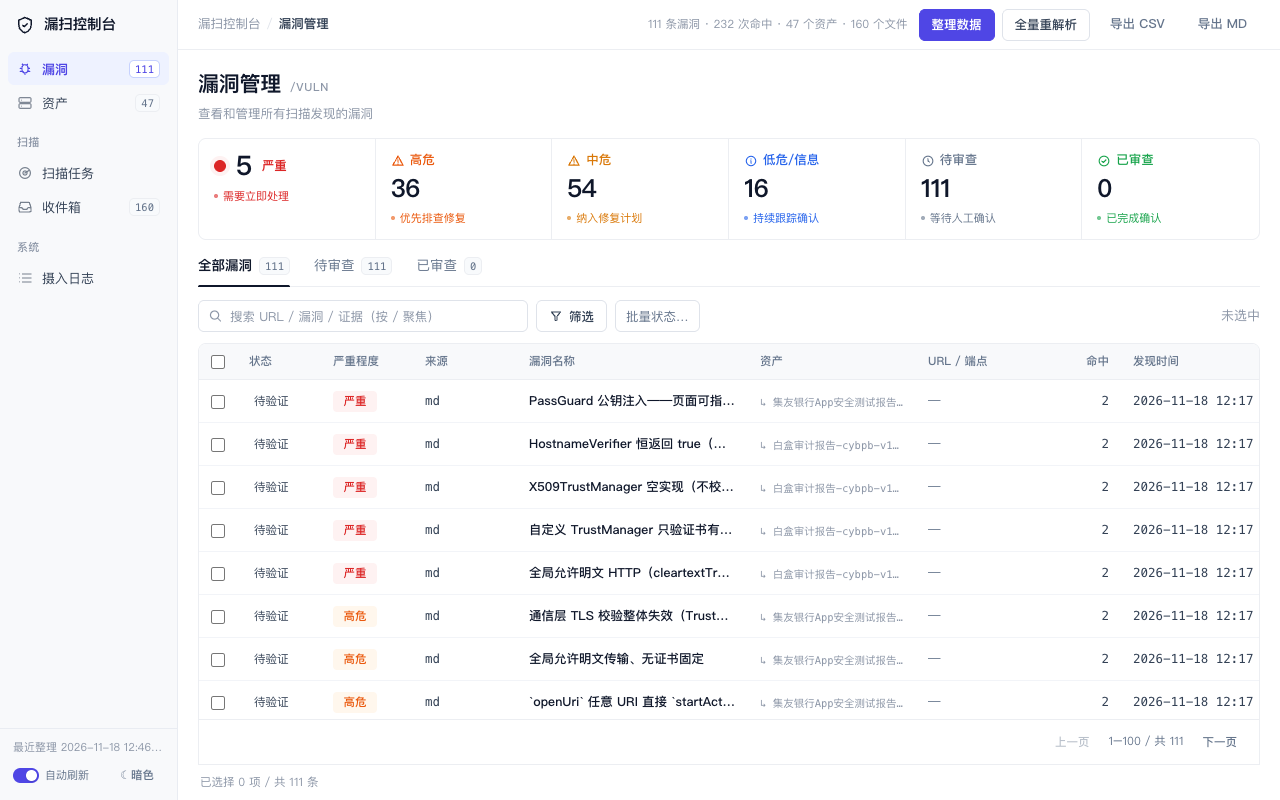
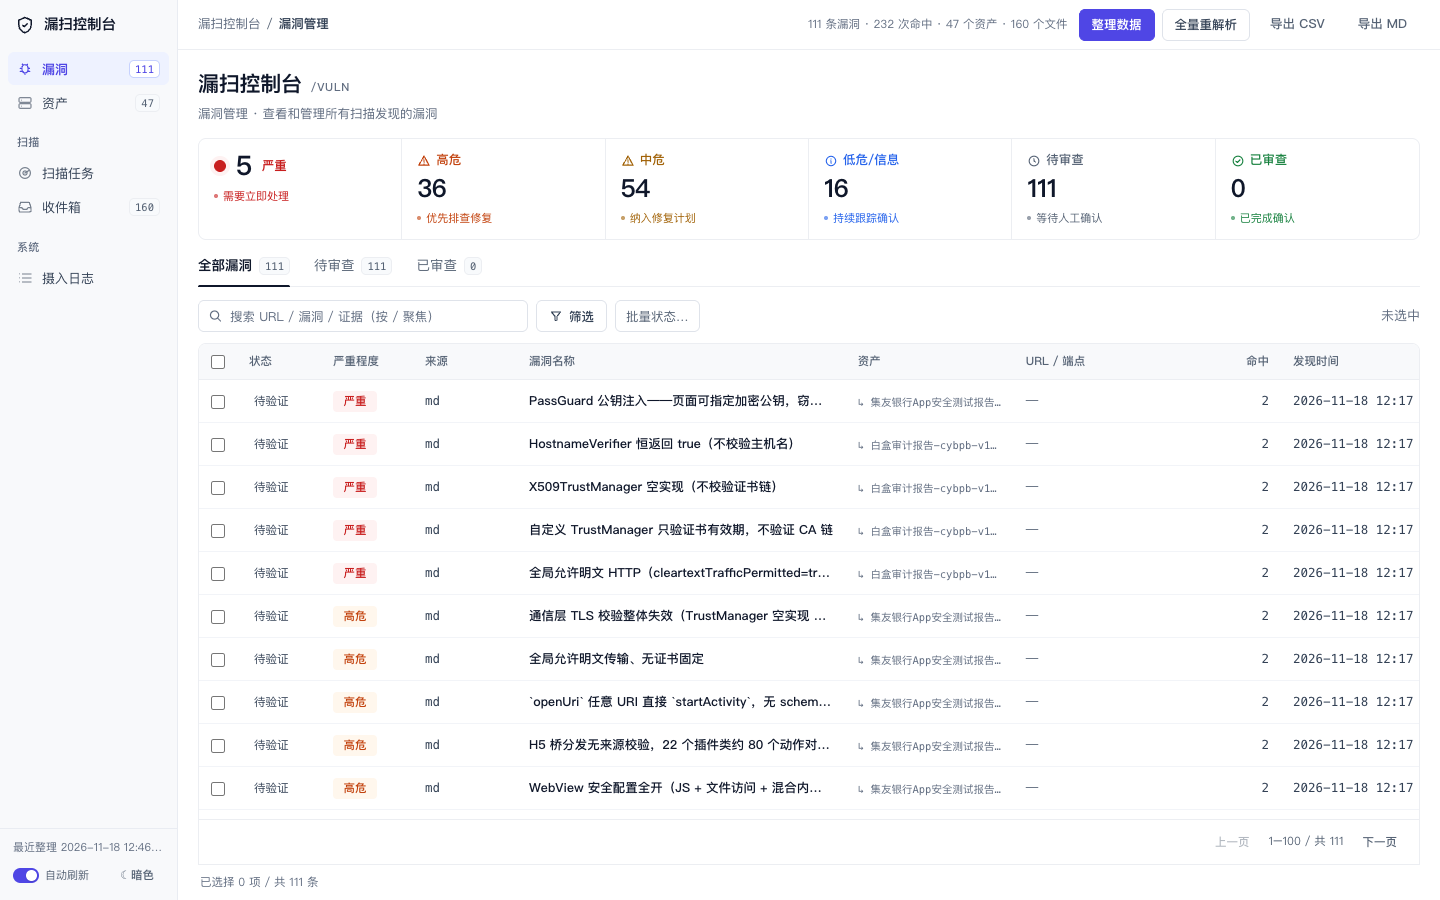
名称回归：页头与浏览器标签恢复「漏扫控制台」，页面区分改挂代号与副标题
- <title> 与 H1 主标题回到「漏扫控制台」，不再被页面名顶掉
- 切页时代号跟着变（/VULN /ASSET /SCAN /INBOX /LOG），页面名+说明进副标题
- 面包屑保持「漏扫控制台 / 当前页」

diff --git a/vc/ui/style.css b/vc/ui/style.css
@@ -24,8 +24,8 @@
 
   --fg: #0f172a;
   --fg-dim: #334155;
-  --muted: #64748b;   /* 白底 4.72:1 */
-  --faint: #8b95a6;   /* 白底 4.5:1 —— 小字元信息也过 AA */
+  --muted: #556274;   /* 白底 6.20:1 */
+  --faint: #606c80;   /* 白底 5.31 / 浅灰底 4.82 —— 10.5px 元信息也过 AA */
 
   --accent: #4f46e5;
   --accent-hi: #4338ca;
@@ -36,11 +36,12 @@
   --accent-glow: rgba(79, 70, 229, 0.16);
 
   /* 严重度：浅底 + 同色字，跟天穹的标签一个路子（不描边） */
-  --crit: #dc2626;  --crit-soft: #fef2f2;  --crit-line: #fecaca;
-  --high: #ea580c;  --high-soft: #fff7ed;  --high-line: #fed7aa;
-  --med:  #d97706;  --med-soft:  #fffbeb;  --med-line:  #fde68a;
+  --crit: #c81e1e;  --crit-soft: #fef2f2;  --crit-line: #fecaca;  /* 4.5+ on soft/white */
+  --high: #c2410c;  --high-soft: #fff7ed;  --high-line: #fed7aa;
+  --med:  #a16207;  --med-soft:  #fffbeb;  --med-line:  #fde68a;
   --low:  #2563eb;  --low-soft:  #eff6ff;  --low-line:  #bfdbfe;
-  --info: #3b82f6;  --info-soft: #eff6ff;  --info-line: #dbeafe;
+  --info: #0369a1;  --info-soft: #eff6ff;  --info-line: #dbeafe;
+  --ok:   #15803d;  /* 状态绿：白底 5.02 */
 
   --fill: #ffffff;
   --fill-2: #f8fafc;
@@ -51,7 +52,7 @@
   --scroll: #cbd5e1;
   --ep: #475569;
   --log-i: #334155;
-  --log-d: #94a3b8;
+  --log-d: #606c80;
 
   --shadow-1: 0 1px 2px rgba(15, 23, 42, 0.04);
   --shadow-2: 0 1px 3px rgba(15, 23, 42, 0.06), 0 4px 12px -6px rgba(15, 23, 42, 0.08);
@@ -88,8 +89,8 @@
 
   --fg: #e7eaf0;
   --fg-dim: #b8c0cf;
-  --muted: #8e98ab;
-  --faint: #6e7889;
+  --muted: #9aa4b6;
+  --faint: #828c9f;
 
   --accent: #818cf8;
   --accent-hi: #a5b4fc;
@@ -104,6 +105,7 @@
   --med:  #fbbf24;  --med-soft:  rgba(251, 191, 36, 0.12);   --med-line:  rgba(251, 191, 36, 0.28);
   --low:  #60a5fa;  --low-soft:  rgba(96, 165, 250, 0.12);   --low-line:  rgba(96, 165, 250, 0.28);
   --info: #7dd3fc;  --info-soft: rgba(125, 211, 252, 0.12);  --info-line: rgba(125, 211, 252, 0.26);
+  --ok:   #4ade80;
 
   --fill: #1a1f2a;
   --fill-2: #1c222d;
@@ -114,7 +116,7 @@
   --scroll: #2c3442;
   --ep: #9aa5b8;
   --log-i: #b8c0cf;
-  --log-d: #6e7889;
+  --log-d: #828c9f;
 
   --shadow-1: 0 1px 2px rgba(0, 0, 0, 0.3);
   --shadow-2: 0 2px 8px rgba(0, 0, 0, 0.4);
@@ -405,7 +407,7 @@ a { color: inherit; }
   min-width: 0;
 }
 
-.crumb .sep { color: var(--line-strong); }
+.crumb .sep { color: var(--muted); }
 
 .crumb b { color: var(--fg-dim); font-weight: 550; }
 
@@ -580,9 +582,9 @@ a { color: inherit; }
 .six.medium .hd, .six.medium .ft { color: var(--med); }
 .six.lowinfo .hd, .six.lowinfo .ft { color: var(--low); }
 .six.todo .hd, .six.todo .ft { color: var(--muted); }
-.six.done .hd, .six.done .ft { color: #16a34a; }
+.six.done .hd, .six.done .ft { color: var(--ok); }
 
-:root[data-theme="dark"] .six.done .hd, :root[data-theme="dark"] .six.done .ft { color: #4ade80; }
+
 
 /* ---------------------------------------------------------------- 状态分段 */
 
@@ -1067,12 +1069,12 @@ a { color: inherit; }
 
 .status-select:focus { border-color: var(--accent-line); box-shadow: var(--ring); background: var(--fill); }
 
-.status-select[data-s="已确认"] { color: #16a34a; }
+.status-select[data-s="已确认"] { color: var(--ok); }
 .status-select[data-s="误报"] { color: var(--faint); }
 .status-select[data-s="已修复"] { color: var(--accent); }
 .status-select[data-s="已忽略"] { color: var(--faint); }
 
-:root[data-theme="dark"] .status-select[data-s="已确认"] { color: #4ade80; }
+
 
 /* 分页 */
 

diff --git a/vc/ui/app.js b/vc/ui/app.js
@@ -103,11 +103,11 @@
     if (root) root.dataset.view = state.tab || 'findings';
     const m = VIEW_META[state.tab] || VIEW_META.findings;
     const t = $('#pageTitle'), c = $('#pageCode'), d = $('#pageDesc'), cr = $('#crumbNow');
-    if (t) t.textContent = m[0];
+    if (t) t.textContent = '漏扫控制台';
     if (c) c.textContent = m[1];
-    if (d) d.textContent = m[2];
+    if (d) d.textContent = m[0] + ' · ' + m[2];
     if (cr) cr.textContent = m[0];
-    document.title = m[0] + ' · 漏扫控制台';
+    document.title = '漏扫控制台 · Vuln Console';
   }
 
   // 状态分段与筛选下拉必须同源，否则会出现「上面写着待审查、下拉却是全部」的自相矛盾
@@ -325,13 +325,13 @@
         <div class="acard-host" title="${esc(a.host)}">${esc(a.host)}</div>
         ${badge}
       </div>
-      ${sub.length ? `<div class="acard-sub">${sub.join('<span class="sep">·</span>')}</div>` : ''}
+      ${sub.length ? `<div class="acard-sub">${sub.join('<span class="sep" aria-hidden="true">·</span>')}</div>` : ''}
       ${title}
       ${ports.length ? `<div class="pchips">${chips}${more}</div>` : '<div class="acard-nop">没有端口信息</div>'}
       ${bar ? `<div class="mixbar">${bar}</div>` : ''}
       <div class="acard-foot">
         <span class="n">${a.n_find ? a.n_find + ' 条漏洞' : '暂无漏洞'}</span>
-        <span class="sep">·</span><span class="mono">${esc(a.sources || '—')}</span>
+        <span class="sep" aria-hidden="true">·</span><span class="mono">${esc(a.sources || '—')}</span>
         <span class="grow"></span>
         <span class="mono" title="${esc(a.last_seen || '')}">${esc(ago(a.last_seen))}</span>
         <span class="go" aria-hidden="true">›</span>

diff --git a/vc/ui/index.html b/vc/ui/index.html
@@ -3,7 +3,7 @@
 <head>
 <meta charset="utf-8">
 <meta name="viewport" content="width=device-width, initial-scale=1">
-<title>漏洞管理 · Vuln Console</title>
+<title>漏扫控制台 · Vuln Console</title>
 <link rel="stylesheet" href="/ui/style.css">
 </head>
 <body>
@@ -67,7 +67,7 @@
   <!-- ============ 主区 ============ -->
   <main class="main">
     <header class="topbar">
-      <div class="crumb">漏扫控制台 <span class="sep">/</span> <b id="crumbNow">漏洞管理</b></div>
+      <div class="crumb">漏扫控制台 <span class="sep" aria-hidden="true">/</span> <b id="crumbNow">漏洞管理</b></div>
       <div class="top-actions">
         <span class="top-meta" id="topMeta"></span>
         <button id="btnRescan" class="btn primary" title="增量摄入：只解析新增或改动的文件">整理数据</button>
@@ -79,7 +79,7 @@
 
     <div class="page" id="pageRoot" data-view="findings">
       <div class="page-head">
-        <h1><span id="pageTitle">漏洞管理</span> <span class="code" id="pageCode">/VULN</span></h1>
+        <h1><span id="pageTitle">漏扫控制台</span> <span class="code" id="pageCode">/VULN</span></h1>
         <p id="pageDesc">查看和管理所有扫描发现的漏洞</p>
       </div>
 
